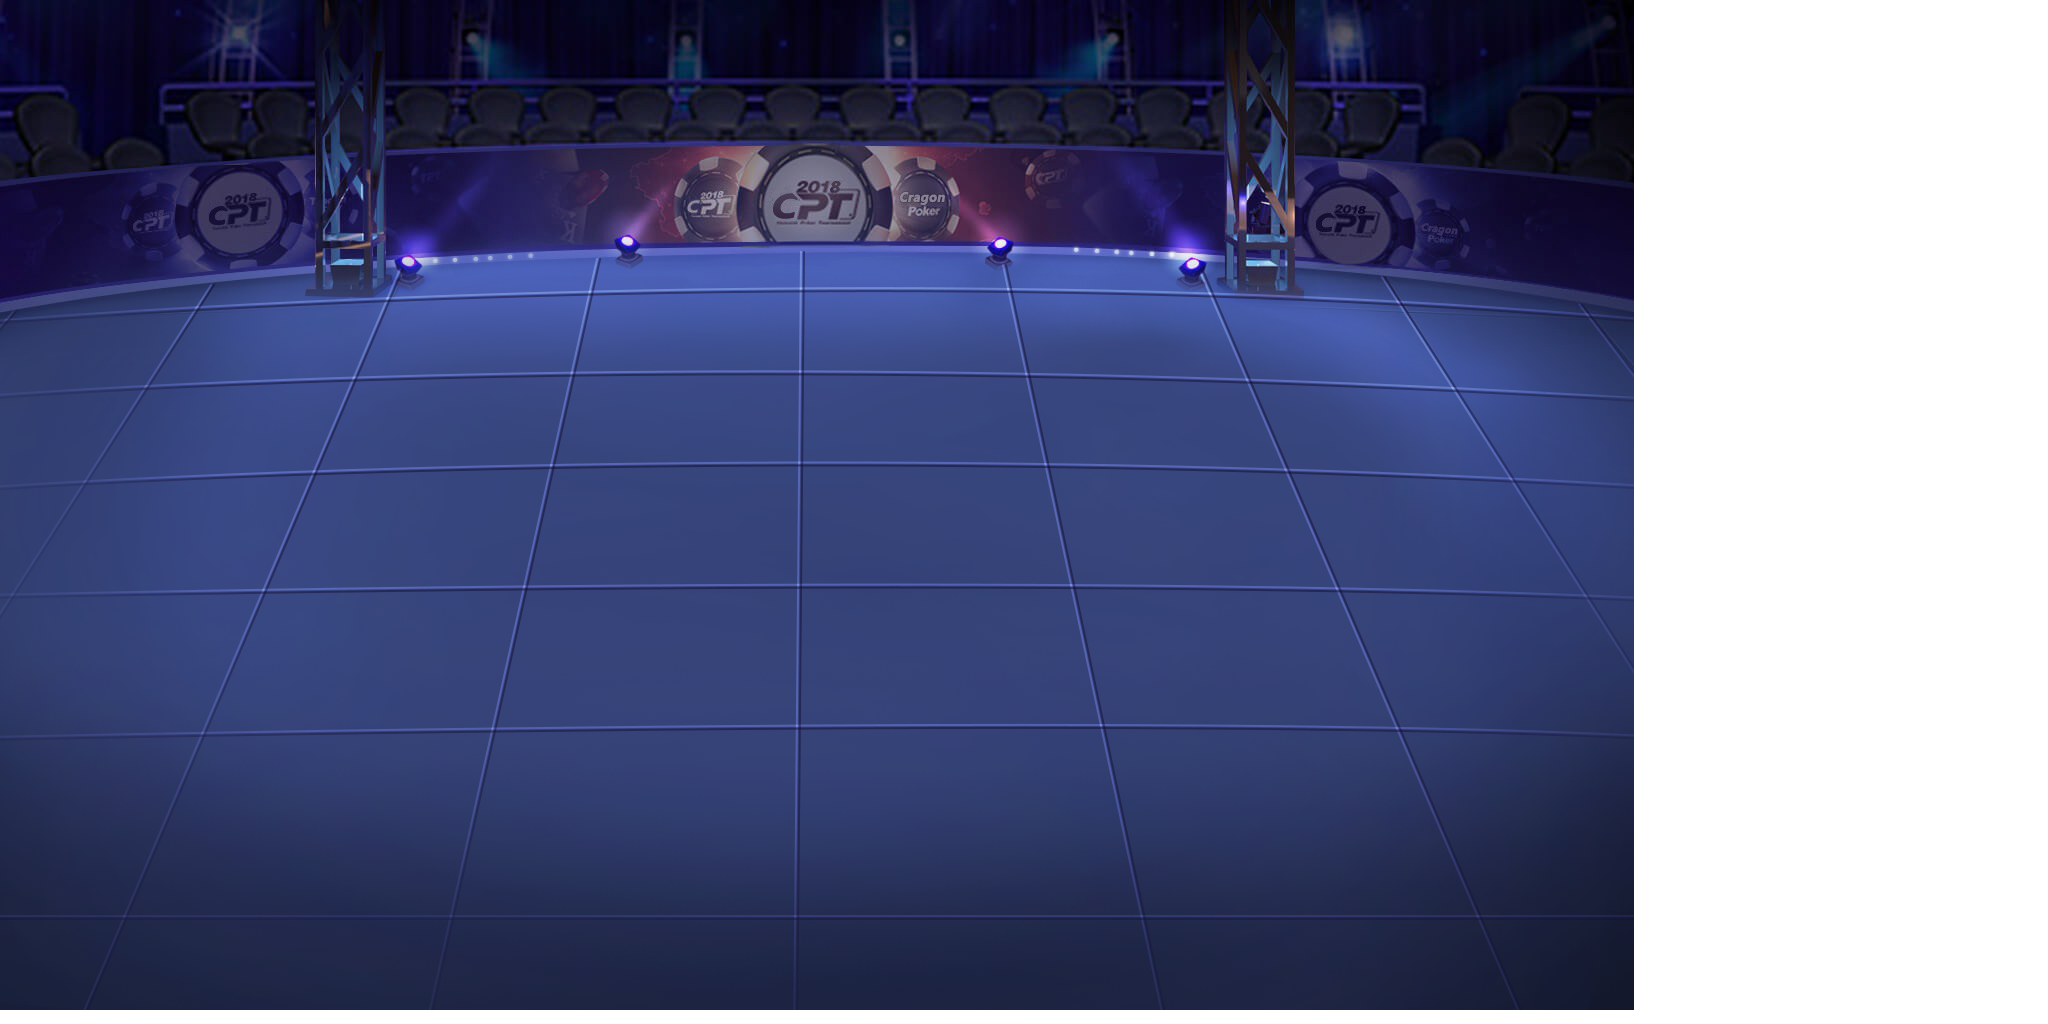
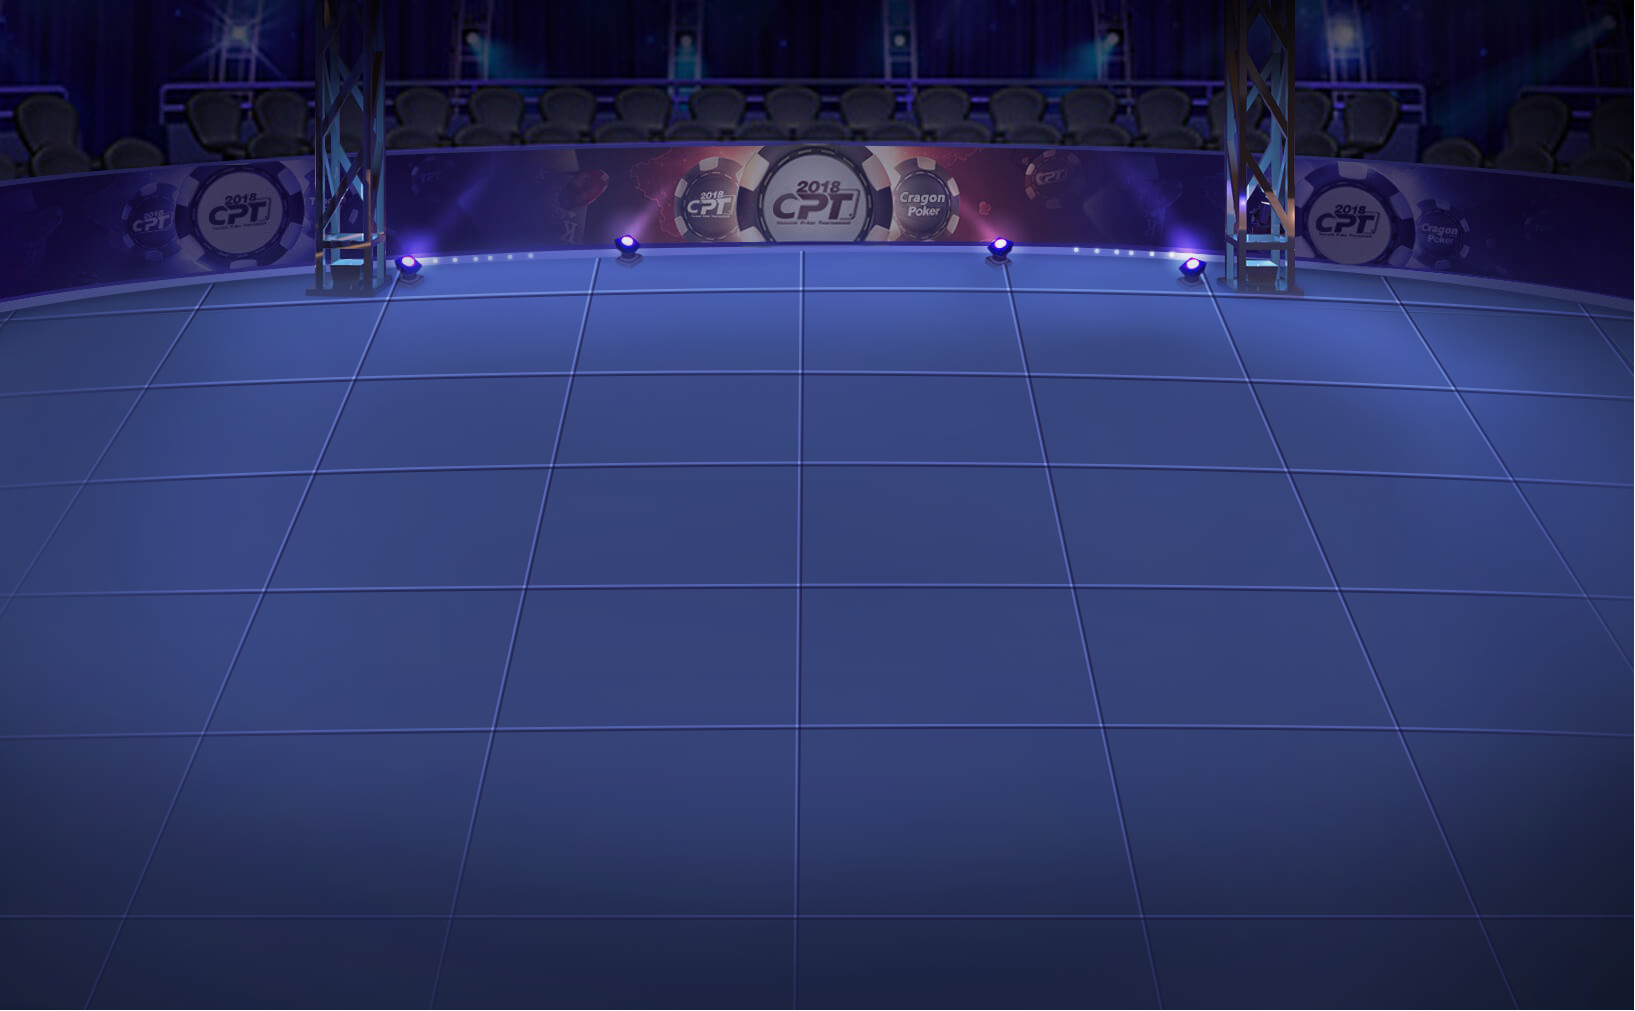
feat:table background

diff --git a/src/game/scenes/Hall.ts b/src/game/scenes/Hall.ts
@@ -1,10 +1,14 @@
 import { EventBus } from '../EventBus';
 import { Scene } from 'phaser';
+import { joinRoomApi } from '../../api/api.js';
 
 export class Hall extends Scene
 {
     camera: Phaser.Cameras.Scene2D.Camera;
     background: Phaser.GameObjects.Image;
+    commonMatch: Phaser.GameObjects.Image;
+    hundredMatch: Phaser.GameObjects.Image;
+    tournamentMatch: Phaser.GameObjects.Image;
     gameText: Phaser.GameObjects.Text;
 
     constructor ()
@@ -14,14 +18,30 @@ export class Hall extends Scene
 
     create ()
     {
-        // this.camera = this.cameras.main;
-        // this.camera.setBackgroundColor(0x00ff00);
+        this.camera = this.cameras.main;
+
         this.background = this.add.image(512, 384, 'hall_background');
         this.background.displayWidth = 1024;
         this.background.displayHeight = 768;
-        // this.background.setScale(0.62);
+
+        this.commonMatch = this.add.image(850, 300, 'common_button');
+        this.commonMatch.displayWidth = 280;
+        this.commonMatch.displayHeight = 84;
+
+        this.hundredMatch = this.add.image(850, 400, 'hundred_button');
+        this.hundredMatch.displayWidth = 280;
+        this.hundredMatch.displayHeight = 84;
+
+        this.tournamentMatch = this.add.image(850, 500, 'match_button');
+        this.tournamentMatch.displayWidth = 280;
+        this.tournamentMatch.displayHeight = 84;
 
 
+        this.commonMatch.setInteractive().on('pointerdown', () => {
+            //todo call api an join match
+            // joinRoomApi()
+            this.scene.start("Game");
+        })
 
         // this.gameText = this.add.text(512, 384, 'Make something fun!\nand share it with us:\nsupport@phaser.io', {
         //     fontFamily: 'Arial Black', fontSize: 38, color: '#ffffff',

diff --git a/src/game/scenes/Game.ts b/src/game/scenes/Game.ts
@@ -15,16 +15,16 @@ export class Game extends Scene
     create ()
     {
         this.camera = this.cameras.main;
-        this.camera.setBackgroundColor(0x00ff00);
 
-        this.background = this.add.image(512, 384, 'background');
-        this.background.setAlpha(0.5);
+        this.background = this.add.image(512, 384, 'table_background');
+        this.background.displayWidth = 1024;
+        this.background.displayHeight = 768;
 
-        this.gameText = this.add.text(512, 384, 'Make something fun!\nand share it with us:\nsupport@phaser.io', {
-            fontFamily: 'Arial Black', fontSize: 38, color: '#ffffff',
-            stroke: '#000000', strokeThickness: 8,
-            align: 'center'
-        }).setOrigin(0.5).setDepth(100);
+        // this.gameText = this.add.text(512, 384, 'Make something fun!\nand share it with us:\nsupport@phaser.io', {
+        //     fontFamily: 'Arial Black', fontSize: 38, color: '#ffffff',
+        //     stroke: '#000000', strokeThickness: 8,
+        //     align: 'center'
+        // }).setOrigin(0.5).setDepth(100);
 
         EventBus.emit('current-scene-ready', this);
     }

diff --git a/src/game/scenes/Boot.ts b/src/game/scenes/Boot.ts
@@ -15,7 +15,12 @@ export class Boot extends Scene
         this.load.image('background', 'assets/loading/loading.png');
         this.load.image('guest_login','assets/loading/guest_login.png')
         this.load.image('loading_avatar','avatars/avater0.png')
-        this.load.image('hall_background','src/assets/Desktop/Desktop_atlas3.png')
+        this.load.image('hall_background','src/assets/main/Main_atlas3.png')
+        this.load.image('common_button','src/assets/main/common.png')
+        this.load.image('hundred_button','src/assets/main/hundred.png')
+        this.load.image('match_button','src/assets/main/match.png')
+
+        this.load.image("table_background","src/assets/Desktop/Desktop_atlas1.png")
     }
 
     create ()

diff --git a/src/utils/request.js b/src/utils/request.js
@@ -1,0 +1,9 @@
+import axios from 'axios' // 引入axios
+
+const service = axios.create({
+  // baseURL: import.meta.env.VITE_BASE_API,
+  baseURL: "http://localhost:8989/",
+  timeout: 99999
+})
+
+export default service

diff --git a/src/api/api.js b/src/api/api.js
@@ -1,0 +1,9 @@
+import service from '../utils/request'
+
+export const joinRoomApi = (data) => {
+  return service({
+    url: '/api/join_room',
+    method: 'post',
+    data
+  })
+}
